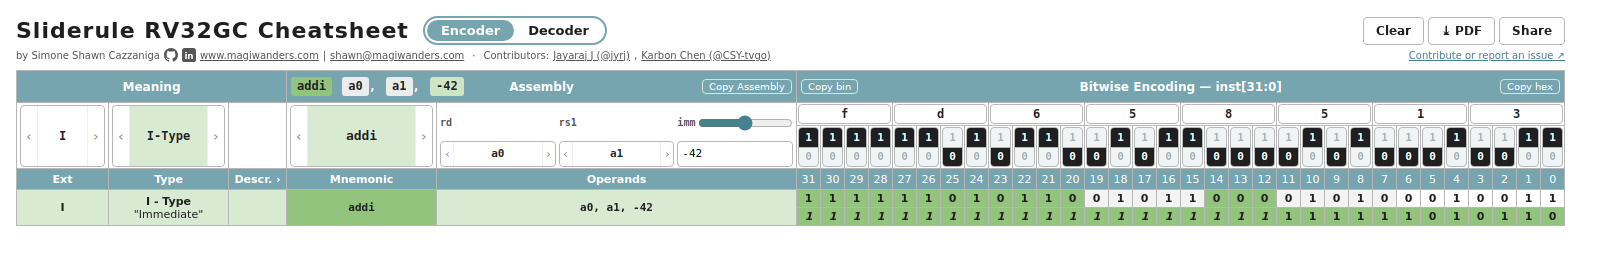
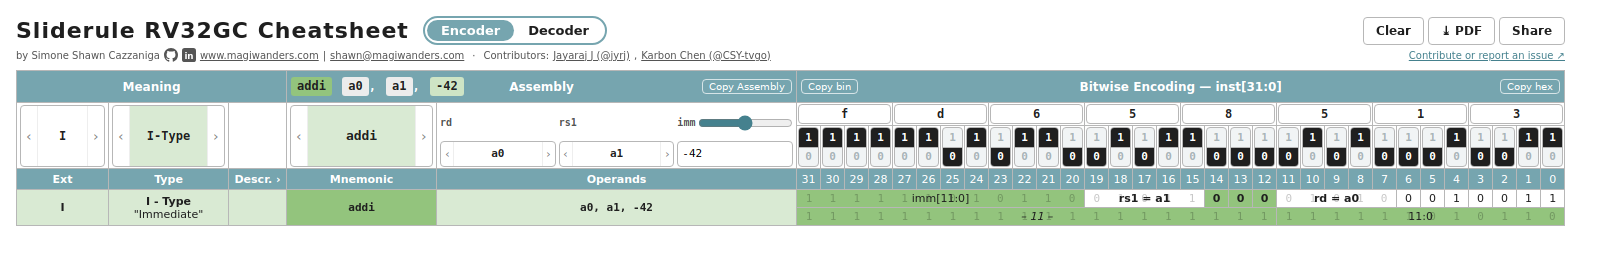
Keep the placeholders, show known bits faintly behind them
The instruction's structure always stays: placeholder cells (imm[...],
rs1, rd, any, the immediate view) are never replaced by plain bits. The bits
known so far show faintly behind them, one per bit column: in the decoder
best effort, for every matching instruction while bits are being set (no
more special layout for the decoded one); in the encoder for the chosen
instruction. Changed bits still flash.

Changed region(s): [[0.5, 0.7111, 0.9688, 0.8296]]

diff --git a/public/styles.css b/public/styles.css
@@ -435,10 +435,12 @@ table.sliderule {
 .bit.any { background: var(--muted); color: #777; }
 .text.explanation { background: var(--light); }
 
-/* The chosen instruction's bits in their own places, coloured like their fields (registers and other fields
-   grey so the values stand out from the white opcode bits). */
-.bit.value { font-weight: bold; }
-.bit.value.field-reg, .bit.value.field-field { background: var(--muted); }
+/* Known bits behind a placeholder cell, faint, one per bit column, under the placeholder's label. */
+.sliderule td.has-bits { position: relative; }
+.cell-bits { position: absolute; inset: 0; display: grid; align-items: center; color: rgba(0, 0, 0, 0.22); font: 11px ui-monospace, Menlo, Consolas, monospace; pointer-events: none; }
+.cell-bits > span { text-align: center; }
+.bit.imm-2 .cell-bits { color: rgba(255, 255, 255, 0.4); }
+.cell-label { position: relative; }
 
 /* HINTs (legal encodings with no architectural effect) and opcodes RV32GC leaves unused. */
 .text.hint { background: var(--muted); color: #555; font-style: italic; text-align: center; }
